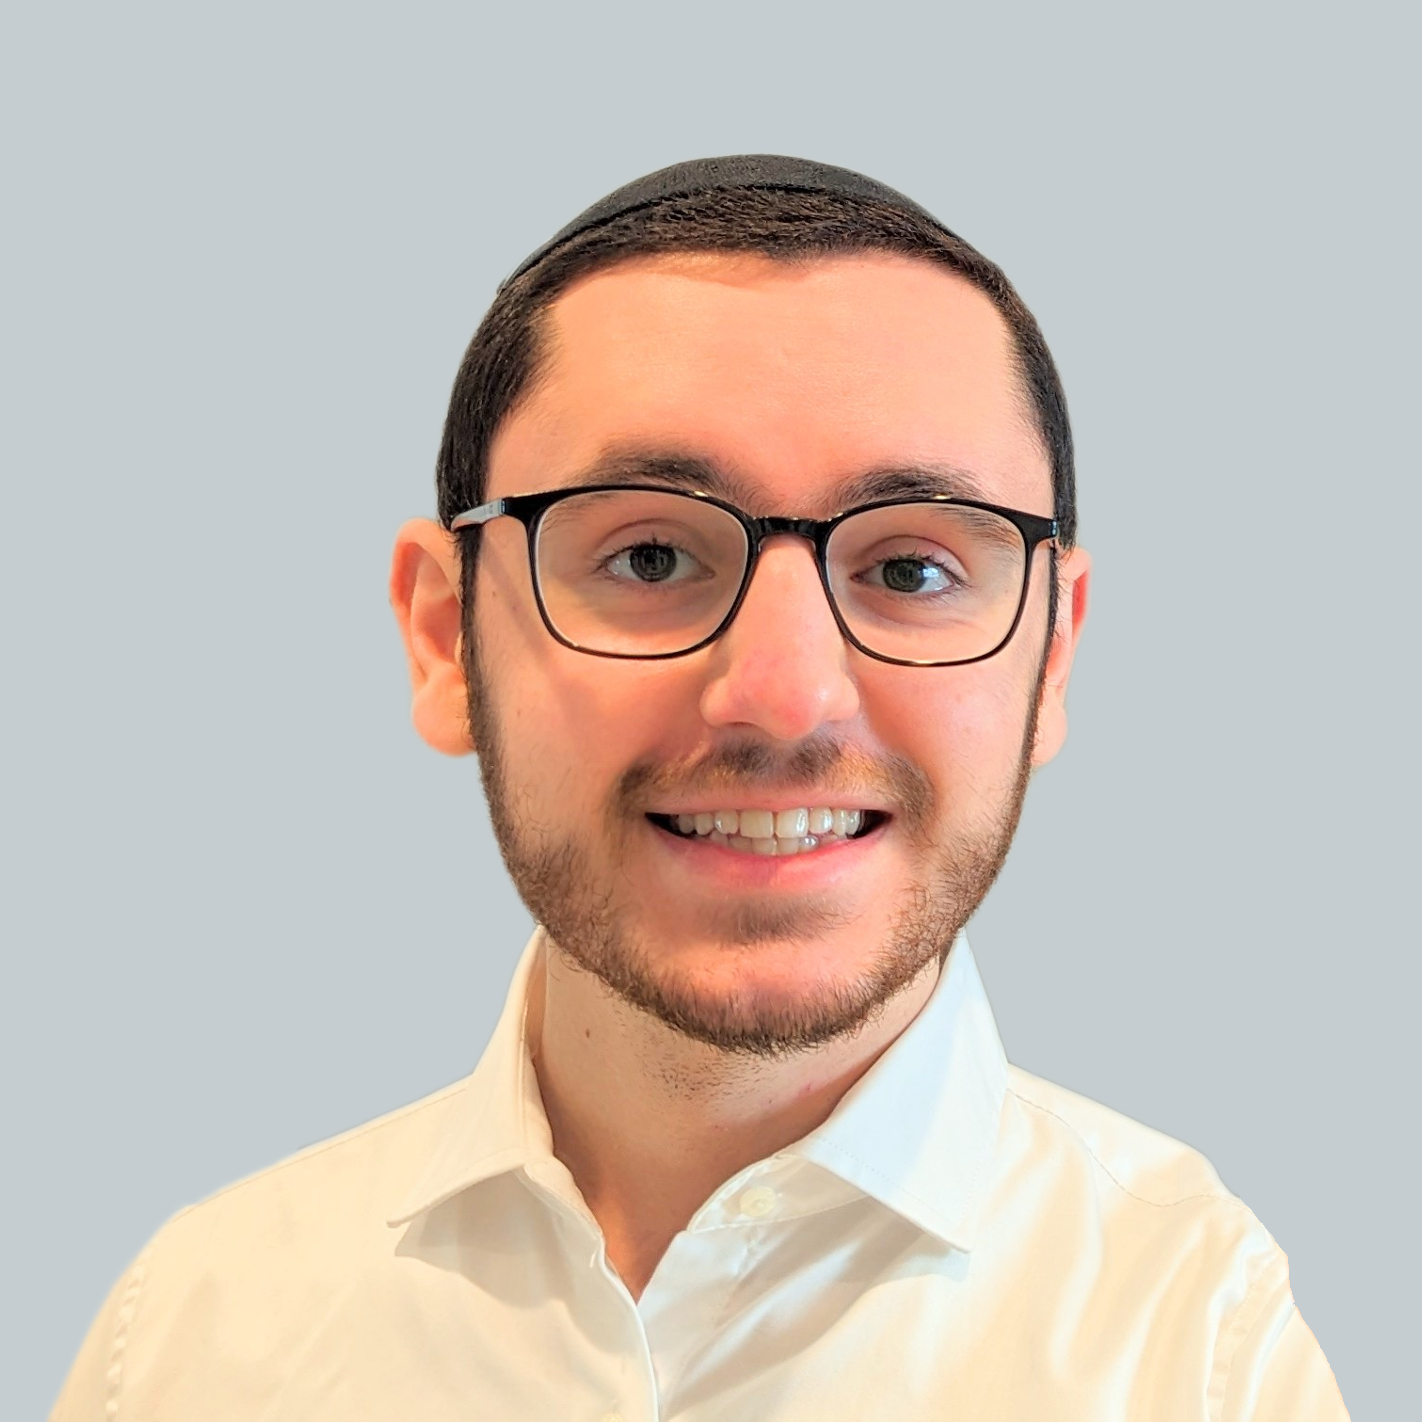
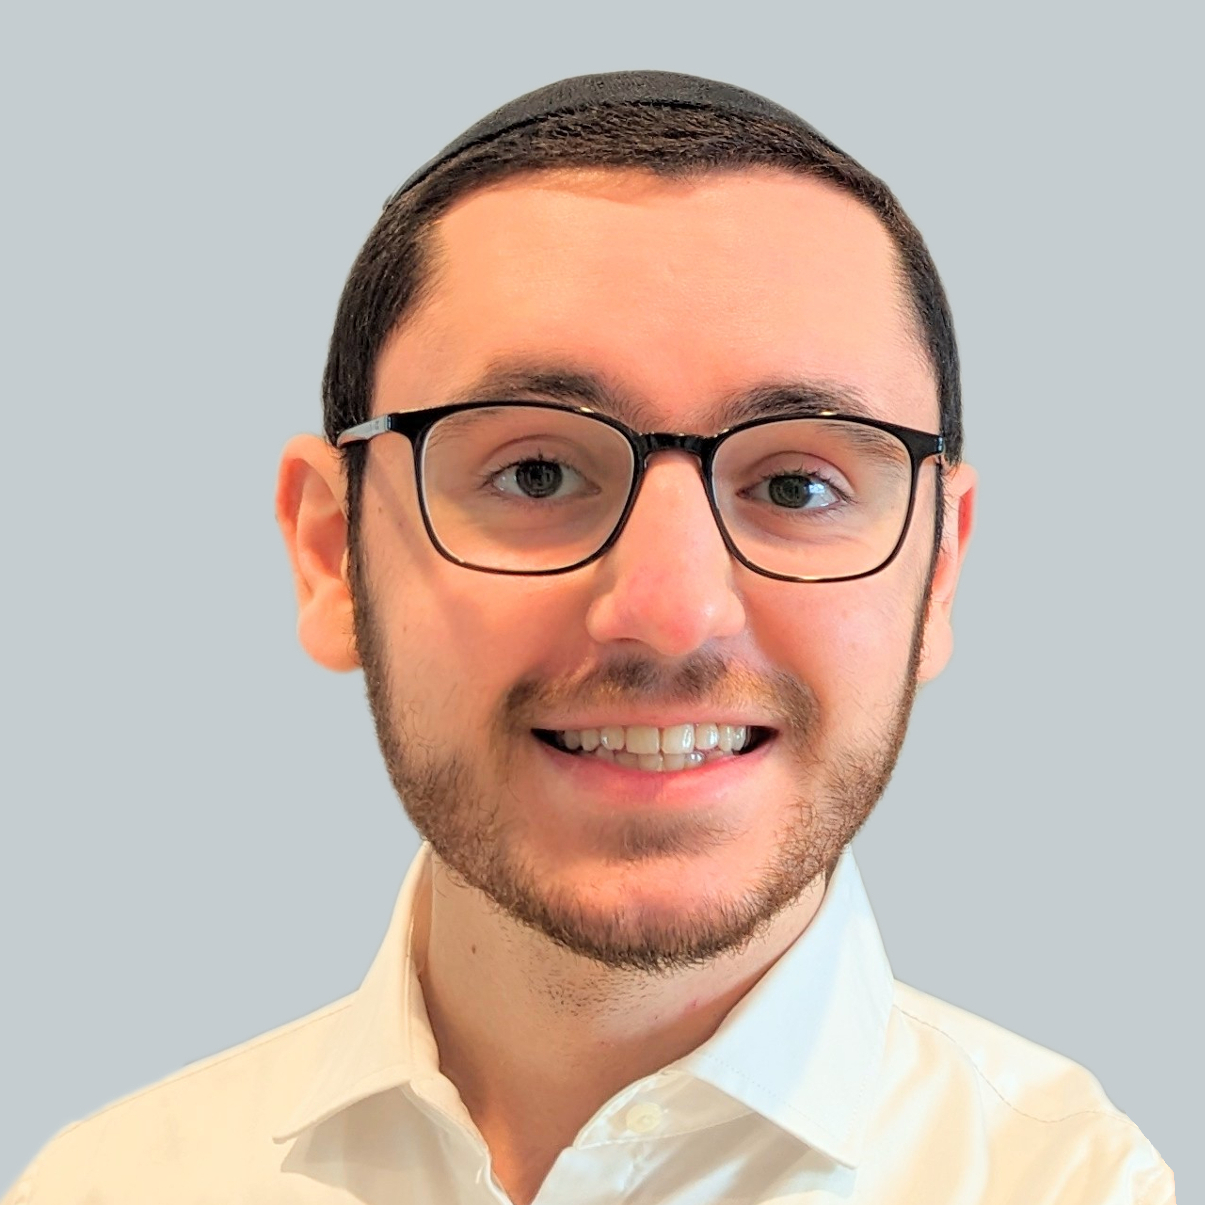
Cropped picture of me

diff --git a/index.html b/index.html
@@ -28,7 +28,7 @@
     <meta property='og:type' content='website' />
     <meta property='og:title' content='Aharon Zarnighian Portfolio'/>
     <meta property='og:description' content='My portfolio website. Work and contact information.'/>
-    <meta property='og:image' content='https://i.imgur.com/s7ptmtM.png'/>
+    <meta property='og:image' content='https://i.imgur.com/n78ETIQ.png'/>
     <meta property='og:url' content='https://azarnighian.github.io/'/>        
     
     <title>Aharon Zarnighian</title>
